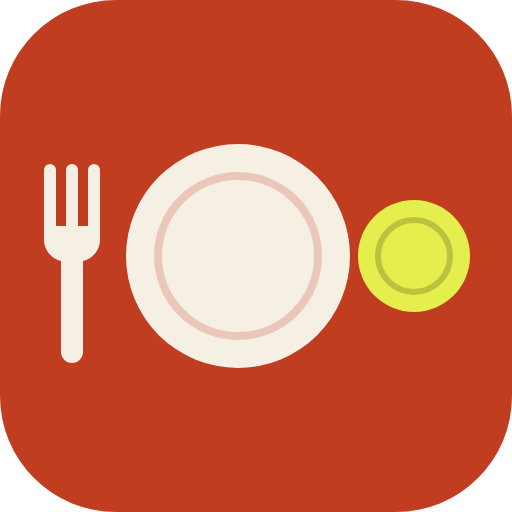
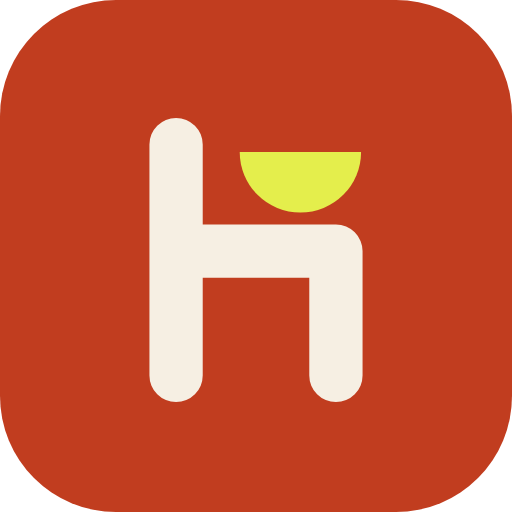
Replace the Hapag mark with the table h
The first mark, a plate and fork with a second plate beside it, was the
category cliche for food apps and read like a camera icon at a glance.
The new mark draws the h of "hapag" as a table with a bowl set on top:
the name and the idea of a meal set out for someone in one shape. It
keeps the brick tile, with the table in cream and the bowl in lime.

The tile SVG and 512 px PNG replace the old ones under the same names,
so the favicon, app icon and Logo component pick it up unchanged. Two
tile-less versions are added for light backgrounds (ink and brick), and
the square social logo is re-rendered. docs/brand.md records the
construction, colours, wordmark, minimum size and misuse rules; README
and decision 13 describe the new mark.

Changed region(s): [[0.0625, 0.2188, 0.9375, 0.7812]]

diff --git a/docs/DECISIONS.md b/docs/DECISIONS.md
@@ -16,7 +16,7 @@ Changes from the prelim proposal (IT 313, SECONDServe). The IT 313 document (v13
 | 10 | **Four roles: buyer, seller, partner, admin.** Partners are LGUs, government agencies, charities and shelters. Admin approves sellers and partners, bans users, moderates listings. | #2 | Technopreneurship feedback (Nov 22): unsold food should still reach people in need (SDG 12). FR-SYS-1, FR-USER-P-1–9, UC-13–18. |
 | 11 | **Pickup or delivery.** Each order is pickup at the store or delivery through a partner courier (Lalamove, Grab, local riders). The courier hand-off is simulated in the prototype; live integration is future work. | #3 | Baguio's terrain makes pickup hard for many buyers. FR-SYS-13, FR-USER-S-12, B-1, B-2, B-11, B-12, FR-BUS-13. |
 | 12 | **Surplus and donation flow.** Listings still unsold about 6 hours before expiry go to a partner Surplus Board. Sellers can also turn a listing into a donation (₱0) or a discounted partner offer. Agencies buy surplus (simulated payment); charities and shelters claim donations for free. All verified partners in the area are notified, and partners mark items as distributed for impact reports. | — | Professor's questions: what happens to leftovers, reach, agency visibility, donations. FR-SYS-14–15, FR-USER-S-13, FR-BUS-14, UC-13–15. |
-| 13 | **Renamed to Hapag.** New mark: a plate seen from above with an extra place set beside it. Tagline "A place at the table for everyone." The frontend, its docs and browser storage keys use the new name; the backend, `render.yaml` and the Supabase metadata key `secondserveProfile` keep the old one for now. | Name and logo (SECONDServe, tray-and-hand mark) | The app now takes every kind of food place, not just leftover-goods shops, and is growing into a donation hub where people can also buy food for others. "Second chance" no longer described it. |
+| 13 | **Renamed to Hapag.** New mark: the h of hapag drawn as a table with a bowl set on it (the meal set out for someone), in cream and lime on a brick tile. Tagline "A place at the table for everyone." The frontend, its docs and browser storage keys use the new name; the backend, `render.yaml` and the Supabase metadata key `secondserveProfile` keep the old one for now. | Name and logo (SECONDServe, tray-and-hand mark) | The app now takes every kind of food place, not just leftover-goods shops, and is growing into a donation hub where people can also buy food for others. "Second chance" no longer described it. |
 
 ## Data model changes from #10–12
 

diff --git a/docs/brand.md b/docs/brand.md
@@ -1,0 +1,43 @@
+# Hapag brand
+
+**Hapag** is Tagalog for the dining table. Tagline: *A place at the table for everyone.*
+
+## The mark
+
+The h of "hapag" is drawn as a table, with a bowl set on top of it: a meal set out
+for whoever comes to the table. It is built on a 256-unit grid from 36-unit strokes
+with fully rounded ends; the bowl is a half circle of radius 41.
+
+| File | Use |
+| --- | --- |
+| `public/brand/hapag-mark.svg` | App tile and favicon. Cream table, lime bowl, brick tile. |
+| `public/brand/hapag-mark.png` | 512 px tile for app icons and the PNG favicon. |
+| `public/brand/hapag-symbol.svg` | Mark without the tile, in ink, for one-colour use on light backgrounds. |
+| `public/brand/hapag-symbol-color.svg` | Mark without the tile, in brick, on white or cream. |
+| `public/brand/hapag-logo.png` | Square lockup with the wordmark and tagline (social previews). |
+
+## Colours
+
+| Name | HEX | Role |
+| --- | --- | --- |
+| Brick | `#c13d1f` | Tile and primary actions |
+| Cream | `#f6efe3` | The table on the tile; text on dark |
+| Lime | `#e4ee4c` | The bowl; highlights only, never body text |
+| Ink | `#17150f` | One-colour mark; text on lime |
+
+## Wordmark
+
+"hapag", lowercase, set in Instrument Serif at about 1.2 times the cap height of
+the text beside it. In the app the lockup is the tile followed by the wordmark
+(`src/components/Logo.astro`).
+
+## Using it
+
+- Keep clear space around the mark at least as wide as one stroke (36 / 256 of its height).
+- Smallest size: 16 px for the tile. Below 24 px the bowl merges into the table,
+  but the h still reads.
+- Put the tile on any background. Put the bare symbol on light backgrounds only.
+- Do not recolour the bowl, outline the mark, add shadows, stretch it, or set
+  "hapag" in another typeface.
+- The name sits close to Hapag-Lloyd, a shipping company. Run a trademark search
+  before any public launch.

diff --git a/README.md b/README.md
@@ -102,8 +102,11 @@ docs/
   api-contract.md          The API the frontend is built against, for the backend team
   requirements-coverage.md How each NFR-USER-U requirement and PERS-3 is met
 public/
-  brand/        hapag-mark.svg (the tile: a plate with an extra place set beside it),
-                hapag-mark.png (512 px, favicon and app icon),
+  brand/        hapag-mark.svg (app tile: the h of hapag drawn as a table with a bowl
+                on it; cream table, lime bowl, brick tile), also the favicon,
+                hapag-mark.png (512 px, app icon and PNG favicon),
+                hapag-symbol.svg / hapag-symbol-color.svg (the mark without the
+                tile, in ink and in brick, for light backgrounds),
                 hapag-logo.png (full square lockup with the tagline)
   photos/       Food photographs, one per listing type, with CREDITS.md
 src/
